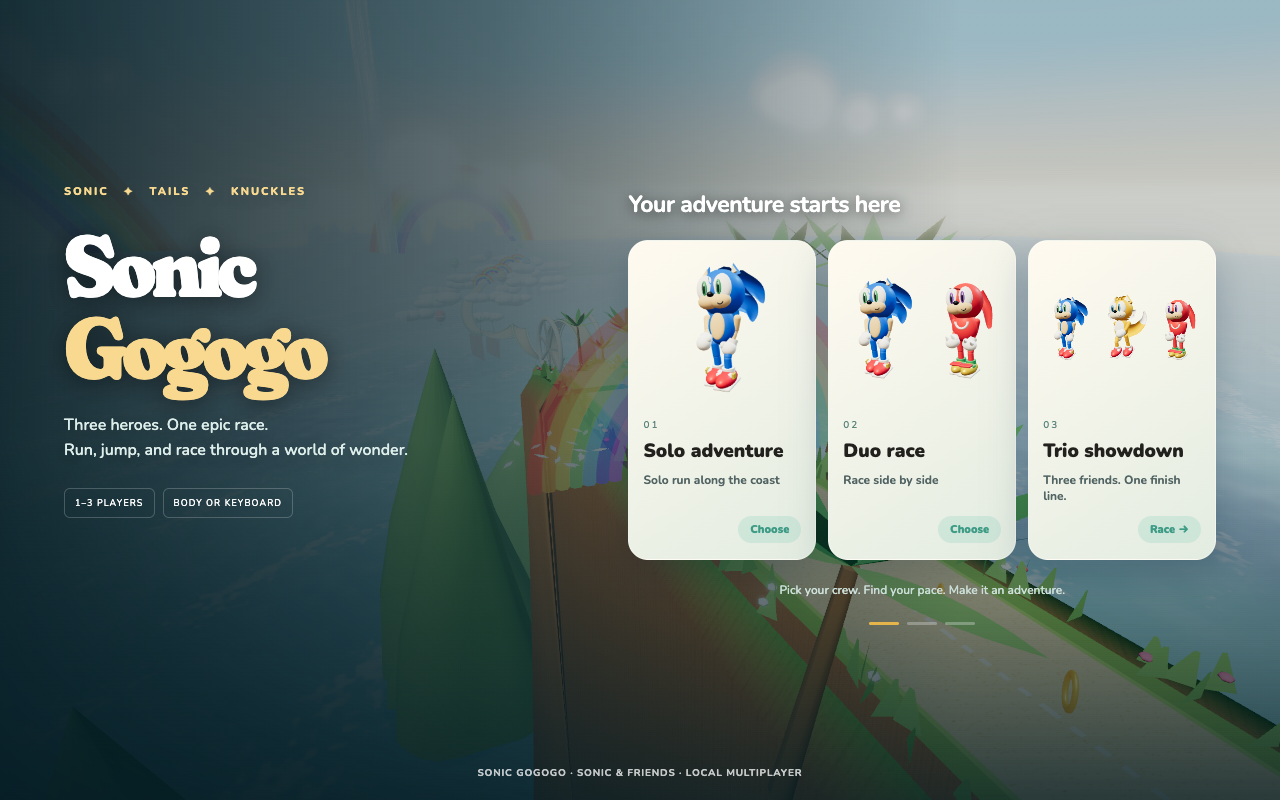
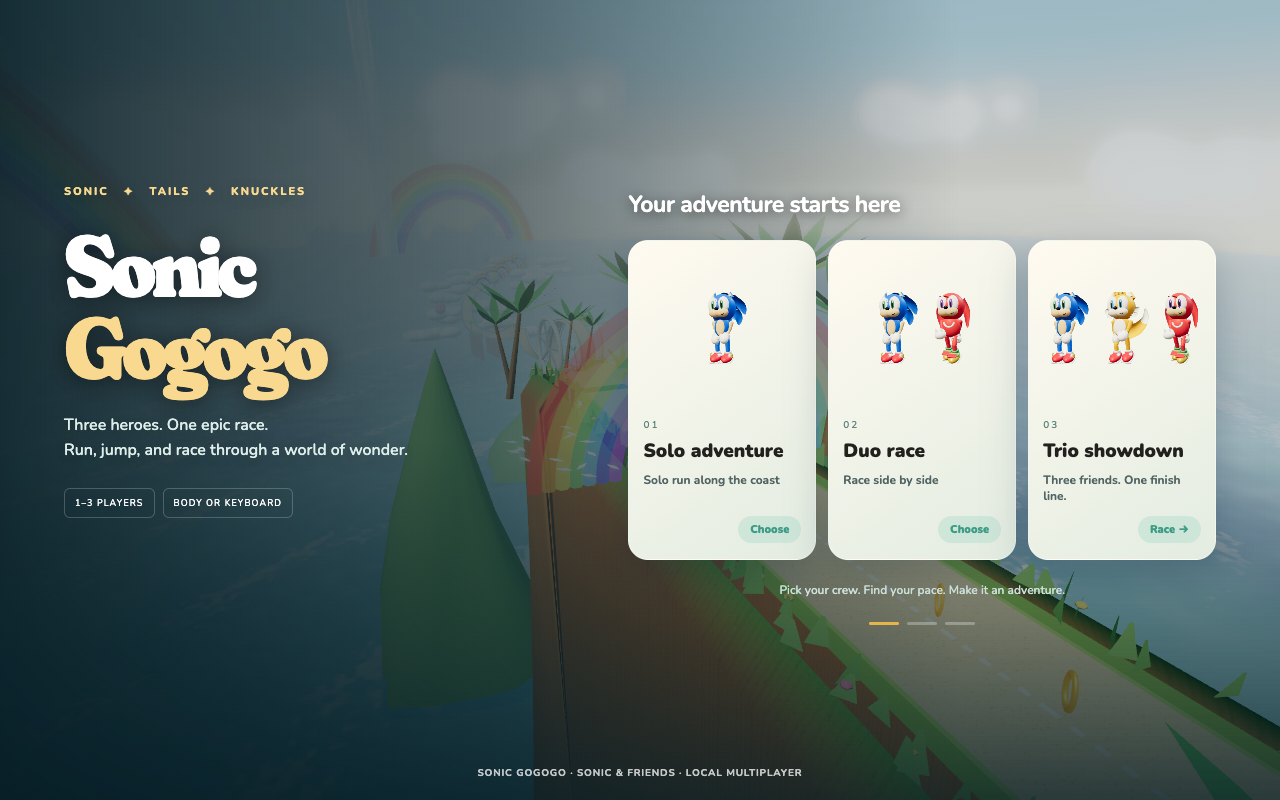
ui: frameless results overlay + equal hero sizes on mode cards
Results screen loses the paper panel — title, stars, scoreboard and
buttons overlay the celebration directly and fit without scrolling.
Mode-card portraits share one size whether a card holds 1, 2, or 3
heroes; portrait camera tightened so figures read larger.

diff --git a/public/index.html b/public/index.html
@@ -45,7 +45,7 @@ button:focus-visible{outline:3px solid var(--gold);outline-offset:3px}
 .btn{background:var(--gold);color:#3a2905;font-weight:900;font-size:clamp(17px,2vw,22px);padding:14px 34px;border-radius:999px;box-shadow:0 10px 26px rgba(230,181,74,.35);transition:transform .12s}
 .btn:hover{transform:translateY(-2px)} .btn:active{transform:scale(.97)} .btn:disabled{opacity:.45;cursor:default;transform:none;box-shadow:none}
 .btn.hold{position:relative;overflow:hidden} .btn.hold i{position:absolute;left:0;top:0;bottom:0;width:0%;background:rgba(255,255,255,.45);pointer-events:none;transition:width .1s linear} .btn.hold span{position:relative}
-.gesture{display:flex;align-items:center;gap:10px;margin-top:14px;color:rgba(255,255,255,.85);font-weight:800;font-size:15px} .gesture svg{width:34px;height:34px;flex:none;background:rgba(34,33,29,.7);border-radius:9px} .result .gesture{color:#5f5a4e;justify-content:center}
+.gesture{display:flex;align-items:center;gap:10px;margin-top:14px;color:rgba(255,255,255,.85);font-weight:800;font-size:15px} .gesture svg{width:34px;height:34px;flex:none;background:rgba(34,33,29,.7);border-radius:9px} .result .gesture{color:rgba(255,255,255,.85);justify-content:center;text-shadow:0 2px 8px rgba(0,0,0,.5)}
 .btn.quiet{background:rgba(255,255,255,.15);color:#fff;box-shadow:none;backdrop-filter:blur(6px)}
 .btn.big{font-size:clamp(22px,3vw,32px);padding:18px 54px}
 .stepper{display:flex;gap:8px;justify-content:center;margin-top:16px}
@@ -104,17 +104,17 @@ button:focus-visible{outline:3px solid var(--gold);outline-offset:3px}
 .p2tag{position:absolute;top:70px;color:#fff;font-weight:900;font-size:15px;background:rgba(20,30,40,.45);padding:4px 12px;border-radius:999px}
 .hint{position:absolute;bottom:26px;left:50%;transform:translateX(-50%);color:rgba(255,255,255,.85);font-weight:800;font-size:clamp(14px,1.8vw,18px);text-shadow:0 2px 10px rgba(0,0,0,.6);background:rgba(20,30,40,.35);padding:8px 16px;border-radius:999px}
 
-/* ---------- Results — a translucent card anchored low so the victory celebration stays visible behind it ---------- */
-#done{justify-content:flex-end;padding-bottom:3vh;background:linear-gradient(180deg,rgba(6,20,30,0) 45%,rgba(6,20,30,.55))}
-.result{background:rgba(247,240,226,.92);backdrop-filter:blur(10px);border-radius:28px;padding:22px 30px;width:min(720px,100%);box-shadow:var(--shadow);text-align:center}
-.result h2{font-family:Fraunces,serif;font-weight:900;font-size:clamp(34px,5vw,58px);line-height:1;color:var(--ink)}
-.result .sub{color:#5f5a4e;font-weight:700;margin:6px 0 20px;font-size:17px}
+/* ---------- Results — no panel: the score overlays the celebration directly ---------- */
+#done{justify-content:flex-end;padding-bottom:3vh;background:linear-gradient(180deg,rgba(6,20,30,0) 40%,rgba(6,20,30,.72))}
+.result{background:none;padding:0 10px;width:min(760px,100%);text-align:center}
+.result h2{font-family:Fraunces,serif;font-weight:900;font-size:clamp(30px,4.6vw,52px);line-height:1;color:#fff;text-shadow:0 3px 18px rgba(0,0,0,.55)}
+.result .sub{color:rgba(255,255,255,.88);font-weight:700;margin:6px 0 12px;font-size:16px;text-shadow:0 2px 10px rgba(0,0,0,.5)}
 .stats{display:flex;justify-content:center;gap:12px;flex-wrap:wrap}
 .stat{background:#fff;border-radius:18px;padding:14px 20px;min-width:130px}
 .stat b{display:block;font-family:Fraunces,serif;font-size:clamp(28px,4vw,40px);font-weight:800;color:var(--sea)}
 .stat span{font-weight:800;color:#5f5a4e;font-size:13px}
 .board{display:flex;gap:14px;justify-content:center;flex-wrap:wrap} .col{background:#fff;border-radius:20px;padding:14px 16px;min-width:230px;flex:1;max-width:320px;text-align:left} .col h3{font-family:Fraunces,serif;font-size:22px;margin-bottom:8px;display:flex;justify-content:space-between;align-items:center} .col h3 .win{font-size:13px;background:var(--gold);color:#5a3f05;padding:4px 10px;border-radius:999px} .col .line{display:flex;justify-content:space-between;font-weight:800;color:#5f5a4e;font-size:14px;padding:5px 0;border-top:1px solid #eee} .col .line b{color:var(--sea);font-size:18px} .col.sonic h3{color:var(--connor)} .col.knuckles h3{color:var(--carter)}
-.stars{font-size:38px;letter-spacing:6px;color:var(--gold);margin:14px 0 4px;text-shadow:0 2px 0 rgba(0,0,0,.08)}
+.stars{font-size:34px;letter-spacing:6px;color:var(--gold);margin:8px 0 2px;text-shadow:0 2px 12px rgba(0,0,0,.45)}
 @media (max-width:720px){.card{width:min(300px,86vw)}.pip{width:34vw}.speedo{width:38vw}}
 @media (prefers-reduced-motion:reduce){.card,.btn{transition:none}}
 
@@ -123,11 +123,11 @@ button:focus-visible{outline:3px solid var(--gold);outline-offset:3px}
 #loading{position:fixed;inset:0;background:#092b36;z-index:100;display:grid;place-content:center;text-align:center;color:#f5d596;font-size:14px;letter-spacing:.14em}#loading span{display:block;color:white;font:700 42px Fraunces,serif;letter-spacing:-.04em;margin-top:18px}
 #start{justify-content:center;align-items:flex-end;padding:72px 5vw 58px;background:linear-gradient(90deg,rgba(5,28,36,.91),rgba(5,28,36,.60) 39%,rgba(5,28,36,.16) 75%),linear-gradient(0deg,rgba(5,28,36,.8),transparent 45%);overflow:auto}
 .menu-head{position:absolute;top:23%;left:5vw;right:auto;width:39%;text-align:left}.eyebrow{font-size:11px;letter-spacing:.18em;color:#f9d98f;margin-bottom:26px}.eyebrow span{margin:0 10px}.title{font-size:clamp(48px,6.8vw,106px);letter-spacing:-.055em;line-height:.94}.title em{font-style:normal;color:#f9d98f}.hero-copy{font-size:16px;line-height:1.6;margin:24px 0;color:#deefeb}.hero-badges{display:flex;gap:8px}.hero-badges span{font-size:9px;letter-spacing:.12em;padding:8px 10px;border:1px solid #ffffff35;border-radius:6px}
-.panel{width:51%;max-width:860px;position:relative}.subtitle{text-align:left;font-family:Nunito,sans-serif;font-size:23px;letter-spacing:-.02em;margin-bottom:20px}.cards{gap:12px;flex-wrap:nowrap}.card{width:auto;flex:1;min-width:0;padding:18px 14px 54px;border:1px solid #ffffff50;border-radius:20px;background:linear-gradient(145deg,#fffaf0,#e3ece1);box-shadow:0 14px 40px #001e3440}.card .name{font-family:Nunito,sans-serif;font-size:19px;line-height:1.2;font-weight:900}.card .trait{font-size:12px;line-height:1.4;margin-top:9px;color:#526464}.card .figure{height:155px;margin:-8px -8px 12px;align-items:center;gap:0}.card canvas{width:112px;height:150px;object-fit:contain;min-width:0}.mode-card[data-mode="2"] canvas{width:50%}.mode-card[data-mode="3"] canvas{width:32%}.mode-number{font-size:10px;letter-spacing:.2em;color:#5b847b;margin-bottom:8px}.card .cta{font-size:11px;bottom:16px;right:14px;padding:6px 12px}.card:hover{transform:translateY(-7px);border-color:#ffd77d}.card[aria-pressed="true"]{border-color:#e5b252;box-shadow:0 0 0 2px #e5b25266,0 16px 40px #001e3440}.menu-note{font-size:12px;color:#d4e7df;text-align:center;margin:22px 0 0}.stepper{margin-top:24px}.stepper li{height:3px;width:30px}.readlink{font-size:10px;letter-spacing:.08em;bottom:20px}.btn{font-size:15px;padding:13px 24px;border-radius:12px;background:#f6d18a;box-shadow:0 7px 22px #00151b22}.btn.quiet{border:1px solid #ffffff33;background:#ffffff14}.row{margin-top:18px;gap:10px}.card.ninja-card .figure{height:210px}.card.ninja-card canvas{width:158px;height:205px}.card.ninja-card .name{font-size:22px}
+.panel{width:51%;max-width:860px;position:relative}.subtitle{text-align:left;font-family:Nunito,sans-serif;font-size:23px;letter-spacing:-.02em;margin-bottom:20px}.cards{gap:12px;flex-wrap:nowrap}.card{width:auto;flex:1;min-width:0;padding:18px 14px 54px;border:1px solid #ffffff50;border-radius:20px;background:linear-gradient(145deg,#fffaf0,#e3ece1);box-shadow:0 14px 40px #001e3440}.card .name{font-family:Nunito,sans-serif;font-size:19px;line-height:1.2;font-weight:900}.card .trait{font-size:12px;line-height:1.4;margin-top:9px;color:#526464}.card .figure{height:155px;margin:-8px -8px 12px;align-items:center;gap:0}.card canvas{width:112px;height:150px;object-fit:contain;min-width:0}.mode-card canvas{width:33%;max-width:110px} /* same hero size on every mode card, whether it holds 1, 2, or 3 */.mode-number{font-size:10px;letter-spacing:.2em;color:#5b847b;margin-bottom:8px}.card .cta{font-size:11px;bottom:16px;right:14px;padding:6px 12px}.card:hover{transform:translateY(-7px);border-color:#ffd77d}.card[aria-pressed="true"]{border-color:#e5b252;box-shadow:0 0 0 2px #e5b25266,0 16px 40px #001e3440}.menu-note{font-size:12px;color:#d4e7df;text-align:center;margin:22px 0 0}.stepper{margin-top:24px}.stepper li{height:3px;width:30px}.readlink{font-size:10px;letter-spacing:.08em;bottom:20px}.btn{font-size:15px;padding:13px 24px;border-radius:12px;background:#f6d18a;box-shadow:0 7px 22px #00151b22}.btn.quiet{border:1px solid #ffffff33;background:#ffffff14}.row{margin-top:18px;gap:10px}.card.ninja-card .figure{height:210px}.card.ninja-card canvas{width:158px;height:205px}.card.ninja-card .name{font-size:22px}
 #start[data-step="3"] .menu-head{top:29%}#start[data-step="3"] .title{font-size:clamp(45px,5.5vw,80px)}.destinations{display:grid;grid-template-columns:repeat(3,1fr);gap:10px}.destinations button{background:#102e3bcf;color:#fff;border:1px solid #ffffff40;border-radius:14px;text-align:left;padding:7px 7px 12px;overflow:hidden}.destinations button[aria-pressed="true"]{border-color:#f6d18a;box-shadow:0 0 0 2px #f6d18a40}.destination-art{display:block;height:65px;border-radius:8px;overflow:hidden}.destination-art svg{width:100%;height:100%;display:block}.tour{background:radial-gradient(ellipse at 30% 140%,#ecc877 40%,transparent 41%),linear-gradient(145deg,#53c6e4,#087887)}.aurora{background:linear-gradient(140deg,#1b315f,#51bda9,#493f97)}.blossom{background:linear-gradient(140deg,#58466e,#e793b2,#f4c9a1)}.destinations b,.destinations small{display:block;padding:7px 3px 0}.destinations b{font-size:13px}.destinations small{font-size:10px;color:#c5dcdf;padding-top:2px}.control-label{color:#f4d68e;font-size:10px;letter-spacing:.14em;margin:20px 0 8px}.control-label span{float:right;letter-spacing:0;color:#abc8cd}.moves{grid-template-columns:repeat(3,1fr);gap:2px 16px;background:#0d2a37b0;border:1px solid #ffffff1f;border-radius:12px;padding:10px 14px}.move{padding:5px 0;border-radius:0;background:none;cursor:default;gap:8px}.move svg{width:28px;height:28px}.move b{font:800 12px Nunito,sans-serif;color:#fff}.move span{font-size:9px;line-height:1.35;color:#a9c6cb}#keyboardGuide{font-size:10px;color:#d0e1e2;line-height:1.7;margin-top:10px}
-.game-controls{position:fixed;right:24px;top:82px;z-index:20}.game-controls button{color:#fff;background:#102d3bba;padding:9px 14px;border:1px solid #ffffff30;border-radius:10px;font-size:12px}#pausePanel{z-index:30;background:#092535bb;backdrop-filter:blur(12px)}#pausePanel .eyebrow{color:#597c79;margin-bottom:18px}#pausePanel .quiet{color:#345352}.hud-top{gap:12px}.rings,.timer{border:1px solid #ffffff30;background:#0c293cc9;border-radius:14px;font-family:Nunito,sans-serif;font-size:22px}.rings.two{font-size:14px}.rings.two em{padding:3px 7px}.course-status{position:absolute;left:50%;transform:translateX(-50%);width:210px;text-align:center;background:#0c293cc9;border:1px solid #ffffff25;color:#fff;padding:9px 14px;border-radius:12px;font-size:12px}.course-line{height:3px;background:#ffffff30;margin:6px 0 3px;border-radius:2px;overflow:hidden}.course-line i{display:block;height:100%;background:#f6d18a;width:0}.course-status small{font-size:9px;color:#c8e0e6}.speedo{padding:16px;background:#0c293ccb;backdrop-filter:blur(8px);border:1px solid #ffffff25;border-radius:16px;width:230px}.speedo .bar{height:6px}.speedo label{font-size:11px}.speedo .boost{height:3px}.speedo .row2{margin-top:13px}.prompt{top:110px}.prompt b{font:900 28px Nunito,sans-serif}.prompt svg{width:42px;height:42px}.hint{bottom:24px;font-size:12px;max-width:40vw;text-align:center;white-space:normal}.result{max-height:64vh;overflow:auto;width:min(900px,94vw);max-width:100%}.col{min-width:180px}.rings.two em.tails{box-shadow:inset 0 0 0 2px #55c7e4}
+.game-controls{position:fixed;right:24px;top:82px;z-index:20}.game-controls button{color:#fff;background:#102d3bba;padding:9px 14px;border:1px solid #ffffff30;border-radius:10px;font-size:12px}#pausePanel{z-index:30;background:#092535bb;backdrop-filter:blur(12px)}#pausePanel .eyebrow{color:#8fb5b0;margin-bottom:18px}#pausePanel .quiet{color:#d9e6e4}.hud-top{gap:12px}.rings,.timer{border:1px solid #ffffff30;background:#0c293cc9;border-radius:14px;font-family:Nunito,sans-serif;font-size:22px}.rings.two{font-size:14px}.rings.two em{padding:3px 7px}.course-status{position:absolute;left:50%;transform:translateX(-50%);width:210px;text-align:center;background:#0c293cc9;border:1px solid #ffffff25;color:#fff;padding:9px 14px;border-radius:12px;font-size:12px}.course-line{height:3px;background:#ffffff30;margin:6px 0 3px;border-radius:2px;overflow:hidden}.course-line i{display:block;height:100%;background:#f6d18a;width:0}.course-status small{font-size:9px;color:#c8e0e6}.speedo{padding:16px;background:#0c293ccb;backdrop-filter:blur(8px);border:1px solid #ffffff25;border-radius:16px;width:230px}.speedo .bar{height:6px}.speedo label{font-size:11px}.speedo .boost{height:3px}.speedo .row2{margin-top:13px}.prompt{top:110px}.prompt b{font:900 28px Nunito,sans-serif}.prompt svg{width:42px;height:42px}.hint{bottom:24px;font-size:12px;max-width:40vw;text-align:center;white-space:normal}.result{width:min(900px,94vw);max-width:100%}.col{box-shadow:0 12px 34px rgba(0,20,35,.3)}.stat{box-shadow:0 12px 34px rgba(0,20,35,.3)}.col{min-width:180px}.rings.two em.tails{box-shadow:inset 0 0 0 2px #55c7e4}
 @media(max-width:1050px){.menu-head{width:34%;top:25%}.panel{width:60%}.title{font-size:7vw}.hero-copy{font-size:13px}.hero-badges{flex-wrap:wrap}.card .name{font-size:16px}.card canvas{width:90px}.course-status{top:60px;width:160px}.prompt{top:140px}}
-@media(max-width:720px){#start{display:block;padding:30px 20px 65px;background:linear-gradient(180deg,#082a36e0,#082a3670 60%,#082a36e8)}.menu-head,#start[data-step="3"] .menu-head{position:relative;width:100%;top:auto;left:auto;margin-bottom:26px}.eyebrow{font-size:9px;margin-bottom:16px}.title,#start[data-step="3"] .title{font-size:52px}.title br{display:none}.title em{display:block}.hero-copy{margin:12px 0;font-size:13px}.hero-badges{display:none}.panel{width:100%}.subtitle{font-size:20px}.cards{gap:8px}.card{width:auto;padding:10px 10px 46px;border-radius:14px}.card .figure{height:110px;margin-bottom:6px}.card canvas{width:75px;height:110px}.card .name{font-size:14px}.card .trait{font-size:10px}.readlink{position:relative;bottom:auto;margin-top:24px;line-height:1.6}.card.ninja-card .figure{height:145px}.card.ninja-card canvas{height:150px}.menu-note{font-size:10px}.card.ninja-card .name{font-size:18px}.hud-top{left:10px;right:10px;top:10px}.rings.two{font-size:10px;gap:4px;padding:8px}.rings .coin{width:22px;height:22px;border-width:5px}.rings.two em{padding:3px}.timer{font-size:16px;padding:8px}.course-status{top:45px}.speedo{width:150px;right:10px;bottom:10px;padding:10px}.pip{left:10px;bottom:10px;width:130px}.hint{bottom:165px;max-width:90vw;width:max-content;font-size:10px}.game-controls{right:10px;top:100px}.prompt b{font-size:20px}.prompt{top:150px}.toast{font-size:25px;white-space:normal;text-align:center;width:90vw}.setup-text p{font-size:14px}.screen{overflow:auto;padding:18px}.cam-frame{max-width:320px}.setup-wrap{gap:14px}}
+@media(max-width:720px){#start{display:block;padding:30px 20px 65px;background:linear-gradient(180deg,#082a36e0,#082a3670 60%,#082a36e8)}.menu-head,#start[data-step="3"] .menu-head{position:relative;width:100%;top:auto;left:auto;margin-bottom:26px}.eyebrow{font-size:9px;margin-bottom:16px}.title,#start[data-step="3"] .title{font-size:52px}.title br{display:none}.title em{display:block}.hero-copy{margin:12px 0;font-size:13px}.hero-badges{display:none}.panel{width:100%}.subtitle{font-size:20px}.cards{gap:8px}.card{width:auto;padding:10px 10px 46px;border-radius:14px}.card .figure{height:110px;margin-bottom:6px}.card canvas{width:75px;height:110px}.mode-card canvas{width:31%}.card .name{font-size:14px}.card .trait{font-size:10px}.readlink{position:relative;bottom:auto;margin-top:24px;line-height:1.6}.card.ninja-card .figure{height:145px}.card.ninja-card canvas{height:150px}.menu-note{font-size:10px}.card.ninja-card .name{font-size:18px}.hud-top{left:10px;right:10px;top:10px}.rings.two{font-size:10px;gap:4px;padding:8px}.rings .coin{width:22px;height:22px;border-width:5px}.rings.two em{padding:3px}.timer{font-size:16px;padding:8px}.course-status{top:45px}.speedo{width:150px;right:10px;bottom:10px;padding:10px}.pip{left:10px;bottom:10px;width:130px}.hint{bottom:165px;max-width:90vw;width:max-content;font-size:10px}.game-controls{right:10px;top:100px}.prompt b{font-size:20px}.prompt{top:150px}.toast{font-size:25px;white-space:normal;text-align:center;width:90vw}.setup-text p{font-size:14px}.screen{overflow:auto;padding:18px}.cam-frame{max-width:320px}.setup-wrap{gap:14px}}
 @media(max-height:650px) and (min-width:721px){#start{padding-top:25px;padding-bottom:35px}.menu-head{top:20%}.card .figure{height:110px}.card canvas{height:110px}.card.ninja-card .figure{height:140px}.card.ninja-card canvas{height:145px}.destinations .destination-art{height:40px}.control-label{margin-top:10px}.stepper{margin-top:12px}.readlink{bottom:10px}}
 .card.tails .name{color:#a26c13}.rings.two em.tails{box-shadow:inset 0 0 0 2px #ffd06d}
 
@@ -225,7 +225,7 @@ addEventListener('error',()=>{const el=document.getElementById('loading');if(el&
     <div class="sub" id="doneSub">The heroes made it to the lighthouse.</div>
     <div class="stars" id="stars">★★★</div>
     <div id="scoreboard"></div>
-    <div class="row"><button class="btn hold" id="againBtn"><i id="againFill"></i><span>Run it again</span></button><button class="btn quiet" id="menuBtn" style="color:var(--ink);background:rgba(0,0,0,.08)">Main menu</button></div>
+    <div class="row"><button class="btn hold" id="againBtn"><i id="againFill"></i><span>Run it again</span></button><button class="btn quiet" id="menuBtn">Main menu</button></div>
     <div class="gesture" id="againGesture" hidden><svg viewBox="0 0 100 100" id="againGestureIcon"></svg>Raise both arms to run again</div>
   </div>
 </section>
@@ -1054,7 +1054,7 @@ const portraitCanvases=[...document.querySelectorAll('canvas[data-fig]')];
 if(portraitCanvases.length){
   const pr=new THREE.WebGLRenderer({alpha:true,antialias:true,preserveDrawingBuffer:true});pr.setSize(256,320);pr.setPixelRatio(1);pr.toneMapping=THREE.ACESFilmicToneMapping;pr.toneMappingExposure=1.25;pr.outputColorSpace=THREE.SRGBColorSpace;
   const ps=new THREE.Scene();ps.add(new THREE.HemisphereLight(0xeaf7ff,0x8b7763,2));const keyLight=new THREE.DirectionalLight(0xffecd0,3);keyLight.position.set(-3,5,4);ps.add(keyLight);const rim=new THREE.DirectionalLight(0x8cdce8,2);rim.position.set(3,3,-2);ps.add(rim);
-  const pc=new THREE.PerspectiveCamera(31,.8,.1,30);pc.position.set(0,1.25,5.0);pc.lookAt(0,1.08,0);
+  const pc=new THREE.PerspectiveCamera(31,.8,.1,30);pc.position.set(0,1.25,4.4);pc.lookAt(0,1.08,0);
   const portraitRigs={},portraitsByKey={};
   for(const key of ['sonic','tails','knuckles']){portraitRigs[key]=buildRunner(key);portraitsByKey[key]=portraitCanvases.filter(c=>c.dataset.fig===key);}
   function posePortrait(key,t){ const rig=portraitRigs[key],R=rig.userData.rig; const ph=t*6.5+({sonic:0,tails:2.1,knuckles:4.2})[key]; const s1=Math.sin(ph),s2=Math.sin(ph+Math.PI);

diff --git a/src/1_head.html b/src/1_head.html
@@ -45,7 +45,7 @@ button:focus-visible{outline:3px solid var(--gold);outline-offset:3px}
 .btn{background:var(--gold);color:#3a2905;font-weight:900;font-size:clamp(17px,2vw,22px);padding:14px 34px;border-radius:999px;box-shadow:0 10px 26px rgba(230,181,74,.35);transition:transform .12s}
 .btn:hover{transform:translateY(-2px)} .btn:active{transform:scale(.97)} .btn:disabled{opacity:.45;cursor:default;transform:none;box-shadow:none}
 .btn.hold{position:relative;overflow:hidden} .btn.hold i{position:absolute;left:0;top:0;bottom:0;width:0%;background:rgba(255,255,255,.45);pointer-events:none;transition:width .1s linear} .btn.hold span{position:relative}
-.gesture{display:flex;align-items:center;gap:10px;margin-top:14px;color:rgba(255,255,255,.85);font-weight:800;font-size:15px} .gesture svg{width:34px;height:34px;flex:none;background:rgba(34,33,29,.7);border-radius:9px} .result .gesture{color:#5f5a4e;justify-content:center}
+.gesture{display:flex;align-items:center;gap:10px;margin-top:14px;color:rgba(255,255,255,.85);font-weight:800;font-size:15px} .gesture svg{width:34px;height:34px;flex:none;background:rgba(34,33,29,.7);border-radius:9px} .result .gesture{color:rgba(255,255,255,.85);justify-content:center;text-shadow:0 2px 8px rgba(0,0,0,.5)}
 .btn.quiet{background:rgba(255,255,255,.15);color:#fff;box-shadow:none;backdrop-filter:blur(6px)}
 .btn.big{font-size:clamp(22px,3vw,32px);padding:18px 54px}
 .stepper{display:flex;gap:8px;justify-content:center;margin-top:16px}
@@ -104,17 +104,17 @@ button:focus-visible{outline:3px solid var(--gold);outline-offset:3px}
 .p2tag{position:absolute;top:70px;color:#fff;font-weight:900;font-size:15px;background:rgba(20,30,40,.45);padding:4px 12px;border-radius:999px}
 .hint{position:absolute;bottom:26px;left:50%;transform:translateX(-50%);color:rgba(255,255,255,.85);font-weight:800;font-size:clamp(14px,1.8vw,18px);text-shadow:0 2px 10px rgba(0,0,0,.6);background:rgba(20,30,40,.35);padding:8px 16px;border-radius:999px}
 
-/* ---------- Results — a translucent card anchored low so the victory celebration stays visible behind it ---------- */
-#done{justify-content:flex-end;padding-bottom:3vh;background:linear-gradient(180deg,rgba(6,20,30,0) 45%,rgba(6,20,30,.55))}
-.result{background:rgba(247,240,226,.92);backdrop-filter:blur(10px);border-radius:28px;padding:22px 30px;width:min(720px,100%);box-shadow:var(--shadow);text-align:center}
-.result h2{font-family:Fraunces,serif;font-weight:900;font-size:clamp(34px,5vw,58px);line-height:1;color:var(--ink)}
-.result .sub{color:#5f5a4e;font-weight:700;margin:6px 0 20px;font-size:17px}
+/* ---------- Results — no panel: the score overlays the celebration directly ---------- */
+#done{justify-content:flex-end;padding-bottom:3vh;background:linear-gradient(180deg,rgba(6,20,30,0) 40%,rgba(6,20,30,.72))}
+.result{background:none;padding:0 10px;width:min(760px,100%);text-align:center}
+.result h2{font-family:Fraunces,serif;font-weight:900;font-size:clamp(30px,4.6vw,52px);line-height:1;color:#fff;text-shadow:0 3px 18px rgba(0,0,0,.55)}
+.result .sub{color:rgba(255,255,255,.88);font-weight:700;margin:6px 0 12px;font-size:16px;text-shadow:0 2px 10px rgba(0,0,0,.5)}
 .stats{display:flex;justify-content:center;gap:12px;flex-wrap:wrap}
 .stat{background:#fff;border-radius:18px;padding:14px 20px;min-width:130px}
 .stat b{display:block;font-family:Fraunces,serif;font-size:clamp(28px,4vw,40px);font-weight:800;color:var(--sea)}
 .stat span{font-weight:800;color:#5f5a4e;font-size:13px}
 .board{display:flex;gap:14px;justify-content:center;flex-wrap:wrap} .col{background:#fff;border-radius:20px;padding:14px 16px;min-width:230px;flex:1;max-width:320px;text-align:left} .col h3{font-family:Fraunces,serif;font-size:22px;margin-bottom:8px;display:flex;justify-content:space-between;align-items:center} .col h3 .win{font-size:13px;background:var(--gold);color:#5a3f05;padding:4px 10px;border-radius:999px} .col .line{display:flex;justify-content:space-between;font-weight:800;color:#5f5a4e;font-size:14px;padding:5px 0;border-top:1px solid #eee} .col .line b{color:var(--sea);font-size:18px} .col.sonic h3{color:var(--connor)} .col.knuckles h3{color:var(--carter)}
-.stars{font-size:38px;letter-spacing:6px;color:var(--gold);margin:14px 0 4px;text-shadow:0 2px 0 rgba(0,0,0,.08)}
+.stars{font-size:34px;letter-spacing:6px;color:var(--gold);margin:8px 0 2px;text-shadow:0 2px 12px rgba(0,0,0,.45)}
 @media (max-width:720px){.card{width:min(300px,86vw)}.pip{width:34vw}.speedo{width:38vw}}
 @media (prefers-reduced-motion:reduce){.card,.btn{transition:none}}
 
@@ -123,11 +123,11 @@ button:focus-visible{outline:3px solid var(--gold);outline-offset:3px}
 #loading{position:fixed;inset:0;background:#092b36;z-index:100;display:grid;place-content:center;text-align:center;color:#f5d596;font-size:14px;letter-spacing:.14em}#loading span{display:block;color:white;font:700 42px Fraunces,serif;letter-spacing:-.04em;margin-top:18px}
 #start{justify-content:center;align-items:flex-end;padding:72px 5vw 58px;background:linear-gradient(90deg,rgba(5,28,36,.91),rgba(5,28,36,.60) 39%,rgba(5,28,36,.16) 75%),linear-gradient(0deg,rgba(5,28,36,.8),transparent 45%);overflow:auto}
 .menu-head{position:absolute;top:23%;left:5vw;right:auto;width:39%;text-align:left}.eyebrow{font-size:11px;letter-spacing:.18em;color:#f9d98f;margin-bottom:26px}.eyebrow span{margin:0 10px}.title{font-size:clamp(48px,6.8vw,106px);letter-spacing:-.055em;line-height:.94}.title em{font-style:normal;color:#f9d98f}.hero-copy{font-size:16px;line-height:1.6;margin:24px 0;color:#deefeb}.hero-badges{display:flex;gap:8px}.hero-badges span{font-size:9px;letter-spacing:.12em;padding:8px 10px;border:1px solid #ffffff35;border-radius:6px}
-.panel{width:51%;max-width:860px;position:relative}.subtitle{text-align:left;font-family:Nunito,sans-serif;font-size:23px;letter-spacing:-.02em;margin-bottom:20px}.cards{gap:12px;flex-wrap:nowrap}.card{width:auto;flex:1;min-width:0;padding:18px 14px 54px;border:1px solid #ffffff50;border-radius:20px;background:linear-gradient(145deg,#fffaf0,#e3ece1);box-shadow:0 14px 40px #001e3440}.card .name{font-family:Nunito,sans-serif;font-size:19px;line-height:1.2;font-weight:900}.card .trait{font-size:12px;line-height:1.4;margin-top:9px;color:#526464}.card .figure{height:155px;margin:-8px -8px 12px;align-items:center;gap:0}.card canvas{width:112px;height:150px;object-fit:contain;min-width:0}.mode-card[data-mode="2"] canvas{width:50%}.mode-card[data-mode="3"] canvas{width:32%}.mode-number{font-size:10px;letter-spacing:.2em;color:#5b847b;margin-bottom:8px}.card .cta{font-size:11px;bottom:16px;right:14px;padding:6px 12px}.card:hover{transform:translateY(-7px);border-color:#ffd77d}.card[aria-pressed="true"]{border-color:#e5b252;box-shadow:0 0 0 2px #e5b25266,0 16px 40px #001e3440}.menu-note{font-size:12px;color:#d4e7df;text-align:center;margin:22px 0 0}.stepper{margin-top:24px}.stepper li{height:3px;width:30px}.readlink{font-size:10px;letter-spacing:.08em;bottom:20px}.btn{font-size:15px;padding:13px 24px;border-radius:12px;background:#f6d18a;box-shadow:0 7px 22px #00151b22}.btn.quiet{border:1px solid #ffffff33;background:#ffffff14}.row{margin-top:18px;gap:10px}.card.ninja-card .figure{height:210px}.card.ninja-card canvas{width:158px;height:205px}.card.ninja-card .name{font-size:22px}
+.panel{width:51%;max-width:860px;position:relative}.subtitle{text-align:left;font-family:Nunito,sans-serif;font-size:23px;letter-spacing:-.02em;margin-bottom:20px}.cards{gap:12px;flex-wrap:nowrap}.card{width:auto;flex:1;min-width:0;padding:18px 14px 54px;border:1px solid #ffffff50;border-radius:20px;background:linear-gradient(145deg,#fffaf0,#e3ece1);box-shadow:0 14px 40px #001e3440}.card .name{font-family:Nunito,sans-serif;font-size:19px;line-height:1.2;font-weight:900}.card .trait{font-size:12px;line-height:1.4;margin-top:9px;color:#526464}.card .figure{height:155px;margin:-8px -8px 12px;align-items:center;gap:0}.card canvas{width:112px;height:150px;object-fit:contain;min-width:0}.mode-card canvas{width:33%;max-width:110px} /* same hero size on every mode card, whether it holds 1, 2, or 3 */.mode-number{font-size:10px;letter-spacing:.2em;color:#5b847b;margin-bottom:8px}.card .cta{font-size:11px;bottom:16px;right:14px;padding:6px 12px}.card:hover{transform:translateY(-7px);border-color:#ffd77d}.card[aria-pressed="true"]{border-color:#e5b252;box-shadow:0 0 0 2px #e5b25266,0 16px 40px #001e3440}.menu-note{font-size:12px;color:#d4e7df;text-align:center;margin:22px 0 0}.stepper{margin-top:24px}.stepper li{height:3px;width:30px}.readlink{font-size:10px;letter-spacing:.08em;bottom:20px}.btn{font-size:15px;padding:13px 24px;border-radius:12px;background:#f6d18a;box-shadow:0 7px 22px #00151b22}.btn.quiet{border:1px solid #ffffff33;background:#ffffff14}.row{margin-top:18px;gap:10px}.card.ninja-card .figure{height:210px}.card.ninja-card canvas{width:158px;height:205px}.card.ninja-card .name{font-size:22px}
 #start[data-step="3"] .menu-head{top:29%}#start[data-step="3"] .title{font-size:clamp(45px,5.5vw,80px)}.destinations{display:grid;grid-template-columns:repeat(3,1fr);gap:10px}.destinations button{background:#102e3bcf;color:#fff;border:1px solid #ffffff40;border-radius:14px;text-align:left;padding:7px 7px 12px;overflow:hidden}.destinations button[aria-pressed="true"]{border-color:#f6d18a;box-shadow:0 0 0 2px #f6d18a40}.destination-art{display:block;height:65px;border-radius:8px;overflow:hidden}.destination-art svg{width:100%;height:100%;display:block}.tour{background:radial-gradient(ellipse at 30% 140%,#ecc877 40%,transparent 41%),linear-gradient(145deg,#53c6e4,#087887)}.aurora{background:linear-gradient(140deg,#1b315f,#51bda9,#493f97)}.blossom{background:linear-gradient(140deg,#58466e,#e793b2,#f4c9a1)}.destinations b,.destinations small{display:block;padding:7px 3px 0}.destinations b{font-size:13px}.destinations small{font-size:10px;color:#c5dcdf;padding-top:2px}.control-label{color:#f4d68e;font-size:10px;letter-spacing:.14em;margin:20px 0 8px}.control-label span{float:right;letter-spacing:0;color:#abc8cd}.moves{grid-template-columns:repeat(3,1fr);gap:2px 16px;background:#0d2a37b0;border:1px solid #ffffff1f;border-radius:12px;padding:10px 14px}.move{padding:5px 0;border-radius:0;background:none;cursor:default;gap:8px}.move svg{width:28px;height:28px}.move b{font:800 12px Nunito,sans-serif;color:#fff}.move span{font-size:9px;line-height:1.35;color:#a9c6cb}#keyboardGuide{font-size:10px;color:#d0e1e2;line-height:1.7;margin-top:10px}
-.game-controls{position:fixed;right:24px;top:82px;z-index:20}.game-controls button{color:#fff;background:#102d3bba;padding:9px 14px;border:1px solid #ffffff30;border-radius:10px;font-size:12px}#pausePanel{z-index:30;background:#092535bb;backdrop-filter:blur(12px)}#pausePanel .eyebrow{color:#597c79;margin-bottom:18px}#pausePanel .quiet{color:#345352}.hud-top{gap:12px}.rings,.timer{border:1px solid #ffffff30;background:#0c293cc9;border-radius:14px;font-family:Nunito,sans-serif;font-size:22px}.rings.two{font-size:14px}.rings.two em{padding:3px 7px}.course-status{position:absolute;left:50%;transform:translateX(-50%);width:210px;text-align:center;background:#0c293cc9;border:1px solid #ffffff25;color:#fff;padding:9px 14px;border-radius:12px;font-size:12px}.course-line{height:3px;background:#ffffff30;margin:6px 0 3px;border-radius:2px;overflow:hidden}.course-line i{display:block;height:100%;background:#f6d18a;width:0}.course-status small{font-size:9px;color:#c8e0e6}.speedo{padding:16px;background:#0c293ccb;backdrop-filter:blur(8px);border:1px solid #ffffff25;border-radius:16px;width:230px}.speedo .bar{height:6px}.speedo label{font-size:11px}.speedo .boost{height:3px}.speedo .row2{margin-top:13px}.prompt{top:110px}.prompt b{font:900 28px Nunito,sans-serif}.prompt svg{width:42px;height:42px}.hint{bottom:24px;font-size:12px;max-width:40vw;text-align:center;white-space:normal}.result{max-height:64vh;overflow:auto;width:min(900px,94vw);max-width:100%}.col{min-width:180px}.rings.two em.tails{box-shadow:inset 0 0 0 2px #55c7e4}
+.game-controls{position:fixed;right:24px;top:82px;z-index:20}.game-controls button{color:#fff;background:#102d3bba;padding:9px 14px;border:1px solid #ffffff30;border-radius:10px;font-size:12px}#pausePanel{z-index:30;background:#092535bb;backdrop-filter:blur(12px)}#pausePanel .eyebrow{color:#8fb5b0;margin-bottom:18px}#pausePanel .quiet{color:#d9e6e4}.hud-top{gap:12px}.rings,.timer{border:1px solid #ffffff30;background:#0c293cc9;border-radius:14px;font-family:Nunito,sans-serif;font-size:22px}.rings.two{font-size:14px}.rings.two em{padding:3px 7px}.course-status{position:absolute;left:50%;transform:translateX(-50%);width:210px;text-align:center;background:#0c293cc9;border:1px solid #ffffff25;color:#fff;padding:9px 14px;border-radius:12px;font-size:12px}.course-line{height:3px;background:#ffffff30;margin:6px 0 3px;border-radius:2px;overflow:hidden}.course-line i{display:block;height:100%;background:#f6d18a;width:0}.course-status small{font-size:9px;color:#c8e0e6}.speedo{padding:16px;background:#0c293ccb;backdrop-filter:blur(8px);border:1px solid #ffffff25;border-radius:16px;width:230px}.speedo .bar{height:6px}.speedo label{font-size:11px}.speedo .boost{height:3px}.speedo .row2{margin-top:13px}.prompt{top:110px}.prompt b{font:900 28px Nunito,sans-serif}.prompt svg{width:42px;height:42px}.hint{bottom:24px;font-size:12px;max-width:40vw;text-align:center;white-space:normal}.result{width:min(900px,94vw);max-width:100%}.col{box-shadow:0 12px 34px rgba(0,20,35,.3)}.stat{box-shadow:0 12px 34px rgba(0,20,35,.3)}.col{min-width:180px}.rings.two em.tails{box-shadow:inset 0 0 0 2px #55c7e4}
 @media(max-width:1050px){.menu-head{width:34%;top:25%}.panel{width:60%}.title{font-size:7vw}.hero-copy{font-size:13px}.hero-badges{flex-wrap:wrap}.card .name{font-size:16px}.card canvas{width:90px}.course-status{top:60px;width:160px}.prompt{top:140px}}
-@media(max-width:720px){#start{display:block;padding:30px 20px 65px;background:linear-gradient(180deg,#082a36e0,#082a3670 60%,#082a36e8)}.menu-head,#start[data-step="3"] .menu-head{position:relative;width:100%;top:auto;left:auto;margin-bottom:26px}.eyebrow{font-size:9px;margin-bottom:16px}.title,#start[data-step="3"] .title{font-size:52px}.title br{display:none}.title em{display:block}.hero-copy{margin:12px 0;font-size:13px}.hero-badges{display:none}.panel{width:100%}.subtitle{font-size:20px}.cards{gap:8px}.card{width:auto;padding:10px 10px 46px;border-radius:14px}.card .figure{height:110px;margin-bottom:6px}.card canvas{width:75px;height:110px}.card .name{font-size:14px}.card .trait{font-size:10px}.readlink{position:relative;bottom:auto;margin-top:24px;line-height:1.6}.card.ninja-card .figure{height:145px}.card.ninja-card canvas{height:150px}.menu-note{font-size:10px}.card.ninja-card .name{font-size:18px}.hud-top{left:10px;right:10px;top:10px}.rings.two{font-size:10px;gap:4px;padding:8px}.rings .coin{width:22px;height:22px;border-width:5px}.rings.two em{padding:3px}.timer{font-size:16px;padding:8px}.course-status{top:45px}.speedo{width:150px;right:10px;bottom:10px;padding:10px}.pip{left:10px;bottom:10px;width:130px}.hint{bottom:165px;max-width:90vw;width:max-content;font-size:10px}.game-controls{right:10px;top:100px}.prompt b{font-size:20px}.prompt{top:150px}.toast{font-size:25px;white-space:normal;text-align:center;width:90vw}.setup-text p{font-size:14px}.screen{overflow:auto;padding:18px}.cam-frame{max-width:320px}.setup-wrap{gap:14px}}
+@media(max-width:720px){#start{display:block;padding:30px 20px 65px;background:linear-gradient(180deg,#082a36e0,#082a3670 60%,#082a36e8)}.menu-head,#start[data-step="3"] .menu-head{position:relative;width:100%;top:auto;left:auto;margin-bottom:26px}.eyebrow{font-size:9px;margin-bottom:16px}.title,#start[data-step="3"] .title{font-size:52px}.title br{display:none}.title em{display:block}.hero-copy{margin:12px 0;font-size:13px}.hero-badges{display:none}.panel{width:100%}.subtitle{font-size:20px}.cards{gap:8px}.card{width:auto;padding:10px 10px 46px;border-radius:14px}.card .figure{height:110px;margin-bottom:6px}.card canvas{width:75px;height:110px}.mode-card canvas{width:31%}.card .name{font-size:14px}.card .trait{font-size:10px}.readlink{position:relative;bottom:auto;margin-top:24px;line-height:1.6}.card.ninja-card .figure{height:145px}.card.ninja-card canvas{height:150px}.menu-note{font-size:10px}.card.ninja-card .name{font-size:18px}.hud-top{left:10px;right:10px;top:10px}.rings.two{font-size:10px;gap:4px;padding:8px}.rings .coin{width:22px;height:22px;border-width:5px}.rings.two em{padding:3px}.timer{font-size:16px;padding:8px}.course-status{top:45px}.speedo{width:150px;right:10px;bottom:10px;padding:10px}.pip{left:10px;bottom:10px;width:130px}.hint{bottom:165px;max-width:90vw;width:max-content;font-size:10px}.game-controls{right:10px;top:100px}.prompt b{font-size:20px}.prompt{top:150px}.toast{font-size:25px;white-space:normal;text-align:center;width:90vw}.setup-text p{font-size:14px}.screen{overflow:auto;padding:18px}.cam-frame{max-width:320px}.setup-wrap{gap:14px}}
 @media(max-height:650px) and (min-width:721px){#start{padding-top:25px;padding-bottom:35px}.menu-head{top:20%}.card .figure{height:110px}.card canvas{height:110px}.card.ninja-card .figure{height:140px}.card.ninja-card canvas{height:145px}.destinations .destination-art{height:40px}.control-label{margin-top:10px}.stepper{margin-top:12px}.readlink{bottom:10px}}
 .card.tails .name{color:#a26c13}.rings.two em.tails{box-shadow:inset 0 0 0 2px #ffd06d}
 
@@ -225,7 +225,7 @@ addEventListener('error',()=>{const el=document.getElementById('loading');if(el&
     <div class="sub" id="doneSub">The heroes made it to the lighthouse.</div>
     <div class="stars" id="stars">★★★</div>
     <div id="scoreboard"></div>
-    <div class="row"><button class="btn hold" id="againBtn"><i id="againFill"></i><span>Run it again</span></button><button class="btn quiet" id="menuBtn" style="color:var(--ink);background:rgba(0,0,0,.08)">Main menu</button></div>
+    <div class="row"><button class="btn hold" id="againBtn"><i id="againFill"></i><span>Run it again</span></button><button class="btn quiet" id="menuBtn">Main menu</button></div>
     <div class="gesture" id="againGesture" hidden><svg viewBox="0 0 100 100" id="againGestureIcon"></svg>Raise both arms to run again</div>
   </div>
 </section>

diff --git a/src/5_chars.js b/src/5_chars.js
@@ -145,7 +145,7 @@ const portraitCanvases=[...document.querySelectorAll('canvas[data-fig]')];
 if(portraitCanvases.length){
   const pr=new THREE.WebGLRenderer({alpha:true,antialias:true,preserveDrawingBuffer:true});pr.setSize(256,320);pr.setPixelRatio(1);pr.toneMapping=THREE.ACESFilmicToneMapping;pr.toneMappingExposure=1.25;pr.outputColorSpace=THREE.SRGBColorSpace;
   const ps=new THREE.Scene();ps.add(new THREE.HemisphereLight(0xeaf7ff,0x8b7763,2));const keyLight=new THREE.DirectionalLight(0xffecd0,3);keyLight.position.set(-3,5,4);ps.add(keyLight);const rim=new THREE.DirectionalLight(0x8cdce8,2);rim.position.set(3,3,-2);ps.add(rim);
-  const pc=new THREE.PerspectiveCamera(31,.8,.1,30);pc.position.set(0,1.25,5.0);pc.lookAt(0,1.08,0);
+  const pc=new THREE.PerspectiveCamera(31,.8,.1,30);pc.position.set(0,1.25,4.4);pc.lookAt(0,1.08,0);
   const portraitRigs={},portraitsByKey={};
   for(const key of ['sonic','tails','knuckles']){portraitRigs[key]=buildRunner(key);portraitsByKey[key]=portraitCanvases.filter(c=>c.dataset.fig===key);}
   function posePortrait(key,t){ const rig=portraitRigs[key],R=rig.userData.rig; const ph=t*6.5+({sonic:0,tails:2.1,knuckles:4.2})[key]; const s1=Math.sin(ph),s2=Math.sin(ph+Math.PI);
